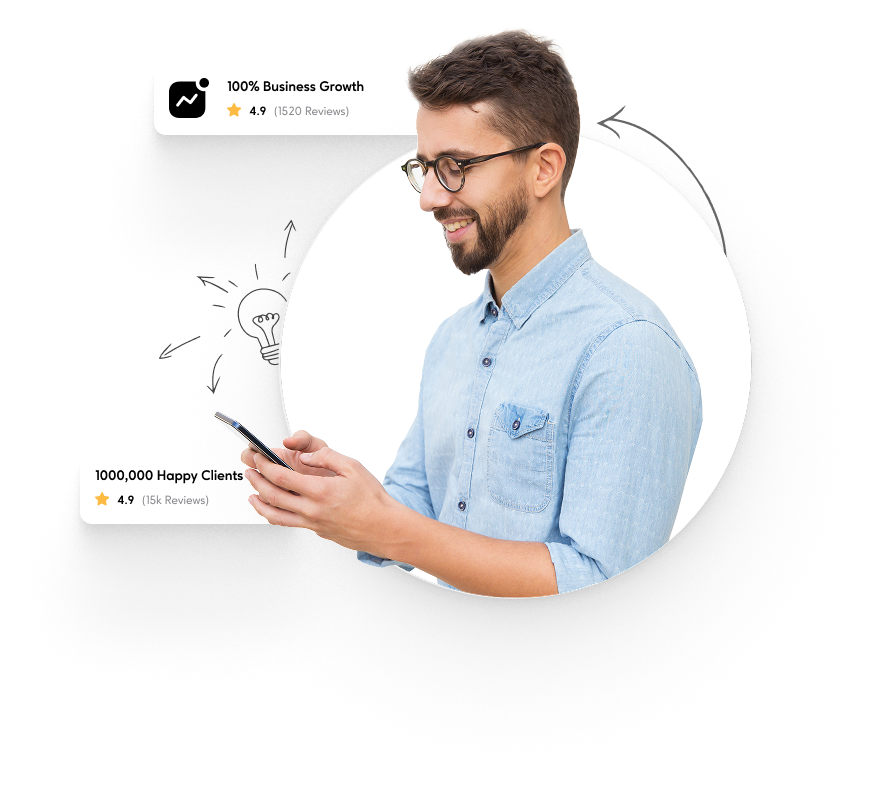
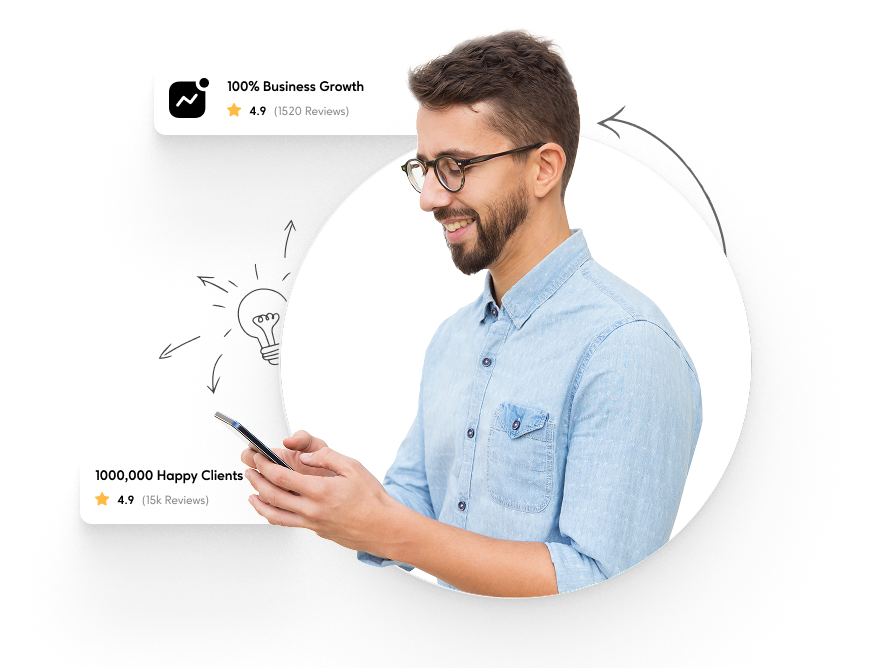
:lipstick: Styling testimonials-section component

diff --git a/src/components/testimonials-section.tsx b/src/components/testimonials-section.tsx
@@ -1,5 +1,67 @@
+import './testimonials-section.css';
+import TestimonialCard from './testimonial-card';
+import Avatar1 from '../assets/avatar-1.png';
+import Avatar2 from '../assets/avatar-2.png';
+import Avatar3 from '../assets/avatar-3.png';
+import Avatar4 from '../assets/avatar-4.png';
+
 function TestimonialsSection() {
-  return <section>TestimonialsSection</section>;
+  return (
+    <section className="testimonials-section">
+      <h3 className="testimonials-section--title">TESTIMONIALS</h3>
+      <h2 className="testimonials-section--description">
+        What clients say about us
+      </h2>
+      <div className="testimonials-section--card-container">
+        <TestimonialCard>
+          <TestimonialCard.Image src={Avatar1} alt="Avatar 1" />
+          <TestimonialCard.Div>
+            <TestimonialCard.Description>
+              Get a fully retina ready site when you build with Startup
+              Framework. Websites look sharper and more gorgeous on devices with
+              retina display support
+            </TestimonialCard.Description>
+            <TestimonialCard.ClientName>
+              Rayhan Curran
+            </TestimonialCard.ClientName>
+          </TestimonialCard.Div>
+        </TestimonialCard>
+        <TestimonialCard>
+          <TestimonialCard.Image src={Avatar2} alt="Avatar 2" />
+          <TestimonialCard.Div>
+            <TestimonialCard.Description>
+              As a business targeting high net worth individuals, we were
+              looking for a slick, cool and mini-malistic design for our website
+            </TestimonialCard.Description>
+            <TestimonialCard.ClientName>
+              Kayley Frame
+            </TestimonialCard.ClientName>
+          </TestimonialCard.Div>
+        </TestimonialCard>
+        <TestimonialCard>
+          <TestimonialCard.Image src={Avatar3} alt="Avatar 3" />
+          <TestimonialCard.Div>
+            <TestimonialCard.Description>
+              The most important part of the Startup Framework is the samples
+            </TestimonialCard.Description>
+            <TestimonialCard.ClientName>
+              Gene Whitfield
+            </TestimonialCard.ClientName>
+          </TestimonialCard.Div>
+        </TestimonialCard>
+        <TestimonialCard>
+          <TestimonialCard.Image src={Avatar4} alt="Avatar 4" />
+          <TestimonialCard.Div>
+            <TestimonialCard.Description>
+              I’ve built my website with Startup just in one day, and it was
+              ready-to-go.
+            </TestimonialCard.Description>
+            <TestimonialCard.ClientName>Allan Kim</TestimonialCard.ClientName>
+          </TestimonialCard.Div>
+        </TestimonialCard>
+      </div>
+    </section>
+  );
 }
 
 export default TestimonialsSection;

diff --git a/src/components/testimonial-card.tsx b/src/components/testimonial-card.tsx
@@ -1,0 +1,43 @@
+import './testimonial-card.css';
+
+export default function TestimonialCard({
+  children,
+}: {
+  children: React.ReactNode;
+}) {
+  return <div className="testimonial-card">{children}</div>;
+}
+
+TestimonialCard.Image = function Image({
+  src,
+  alt,
+}: {
+  src: string;
+  alt: string;
+}) {
+  return <img src={src} alt={alt} className="testimonial-card--image" />;
+};
+
+TestimonialCard.Description = function Description({
+  children,
+}: {
+  children: React.ReactNode;
+}) {
+  return <p className="testimonial-card--description">{children}</p>;
+};
+
+TestimonialCard.ClientName = function ClientName({
+  children,
+}: {
+  children: React.ReactNode;
+}) {
+  return <p className="testimonial-card--client-name">{children}</p>;
+};
+
+TestimonialCard.Div = function Div({
+  children,
+}: {
+  children: React.ReactNode;
+}) {
+  return <div className="testimonial-card--div">{children}</div>;
+};

diff --git a/src/components/testimonials-section.css b/src/components/testimonials-section.css
@@ -1,0 +1,24 @@
+.testimonials-section {
+  width: 1000px;
+  margin: 0 auto;
+
+  .testimonials-section--title {
+    font-size: 14px;
+    text-align: center;
+    letter-spacing: 4px;
+    color: #8a898e;
+  }
+
+  .testimonials-section--description {
+    text-align: center;
+    font-size: 52px;
+  }
+
+  .testimonials-section--card-container {
+    margin-top: 6rem;
+    display: grid;
+    grid-template-columns: repeat(2, 1fr);
+    grid-template-rows: repeat(2, 100px);
+    gap: 2rem 4rem;
+  }
+}

diff --git a/src/components/testimonial-card.css b/src/components/testimonial-card.css
@@ -1,0 +1,25 @@
+.testimonial-card {
+  display: flex;
+  gap: 2rem;
+
+  .testimonial-card--image {
+    width: 70px;
+    height: 70px;
+  }
+  .testimonial-card--div {
+    display: flex;
+    flex-direction: column;
+    justify-content: space-between;
+
+    .testimonial-card--description {
+      font-weight: 500;
+    }
+
+    .testimonial-card--client-name {
+      color: #8a898e;
+      text-transform: uppercase;
+      letter-spacing: 2px;
+      font-size: 12px;
+    }
+  }
+}

diff --git a/src/components/service-section.tsx b/src/components/service-section.tsx
@@ -1,5 +1,5 @@
 import './service-section.css';
-import Image2 from '../assets/imagen-2.jpg';
+import Image2 from '../assets/image-2.jpg';
 import Card from './card';
 import Icon2 from '../assets/icon-2.svg';
 import Icon3 from '../assets/icon-3.svg';

diff --git a/src/components/contact-section.tsx b/src/components/contact-section.tsx
@@ -1,5 +1,5 @@
 function ContactSection() {
-  return <div>ContactSection</div>;
+  return <section>ContactSection</section>;
 }
 
 export default ContactSection;

diff --git a/src/App.css b/src/App.css
@@ -1,7 +1,7 @@
 .main-container {
   max-width: 1440px;
 
-  & > * {
-    margin-bottom: 4rem;
+  & > section {
+    margin-bottom: 6rem;
   }
 }
